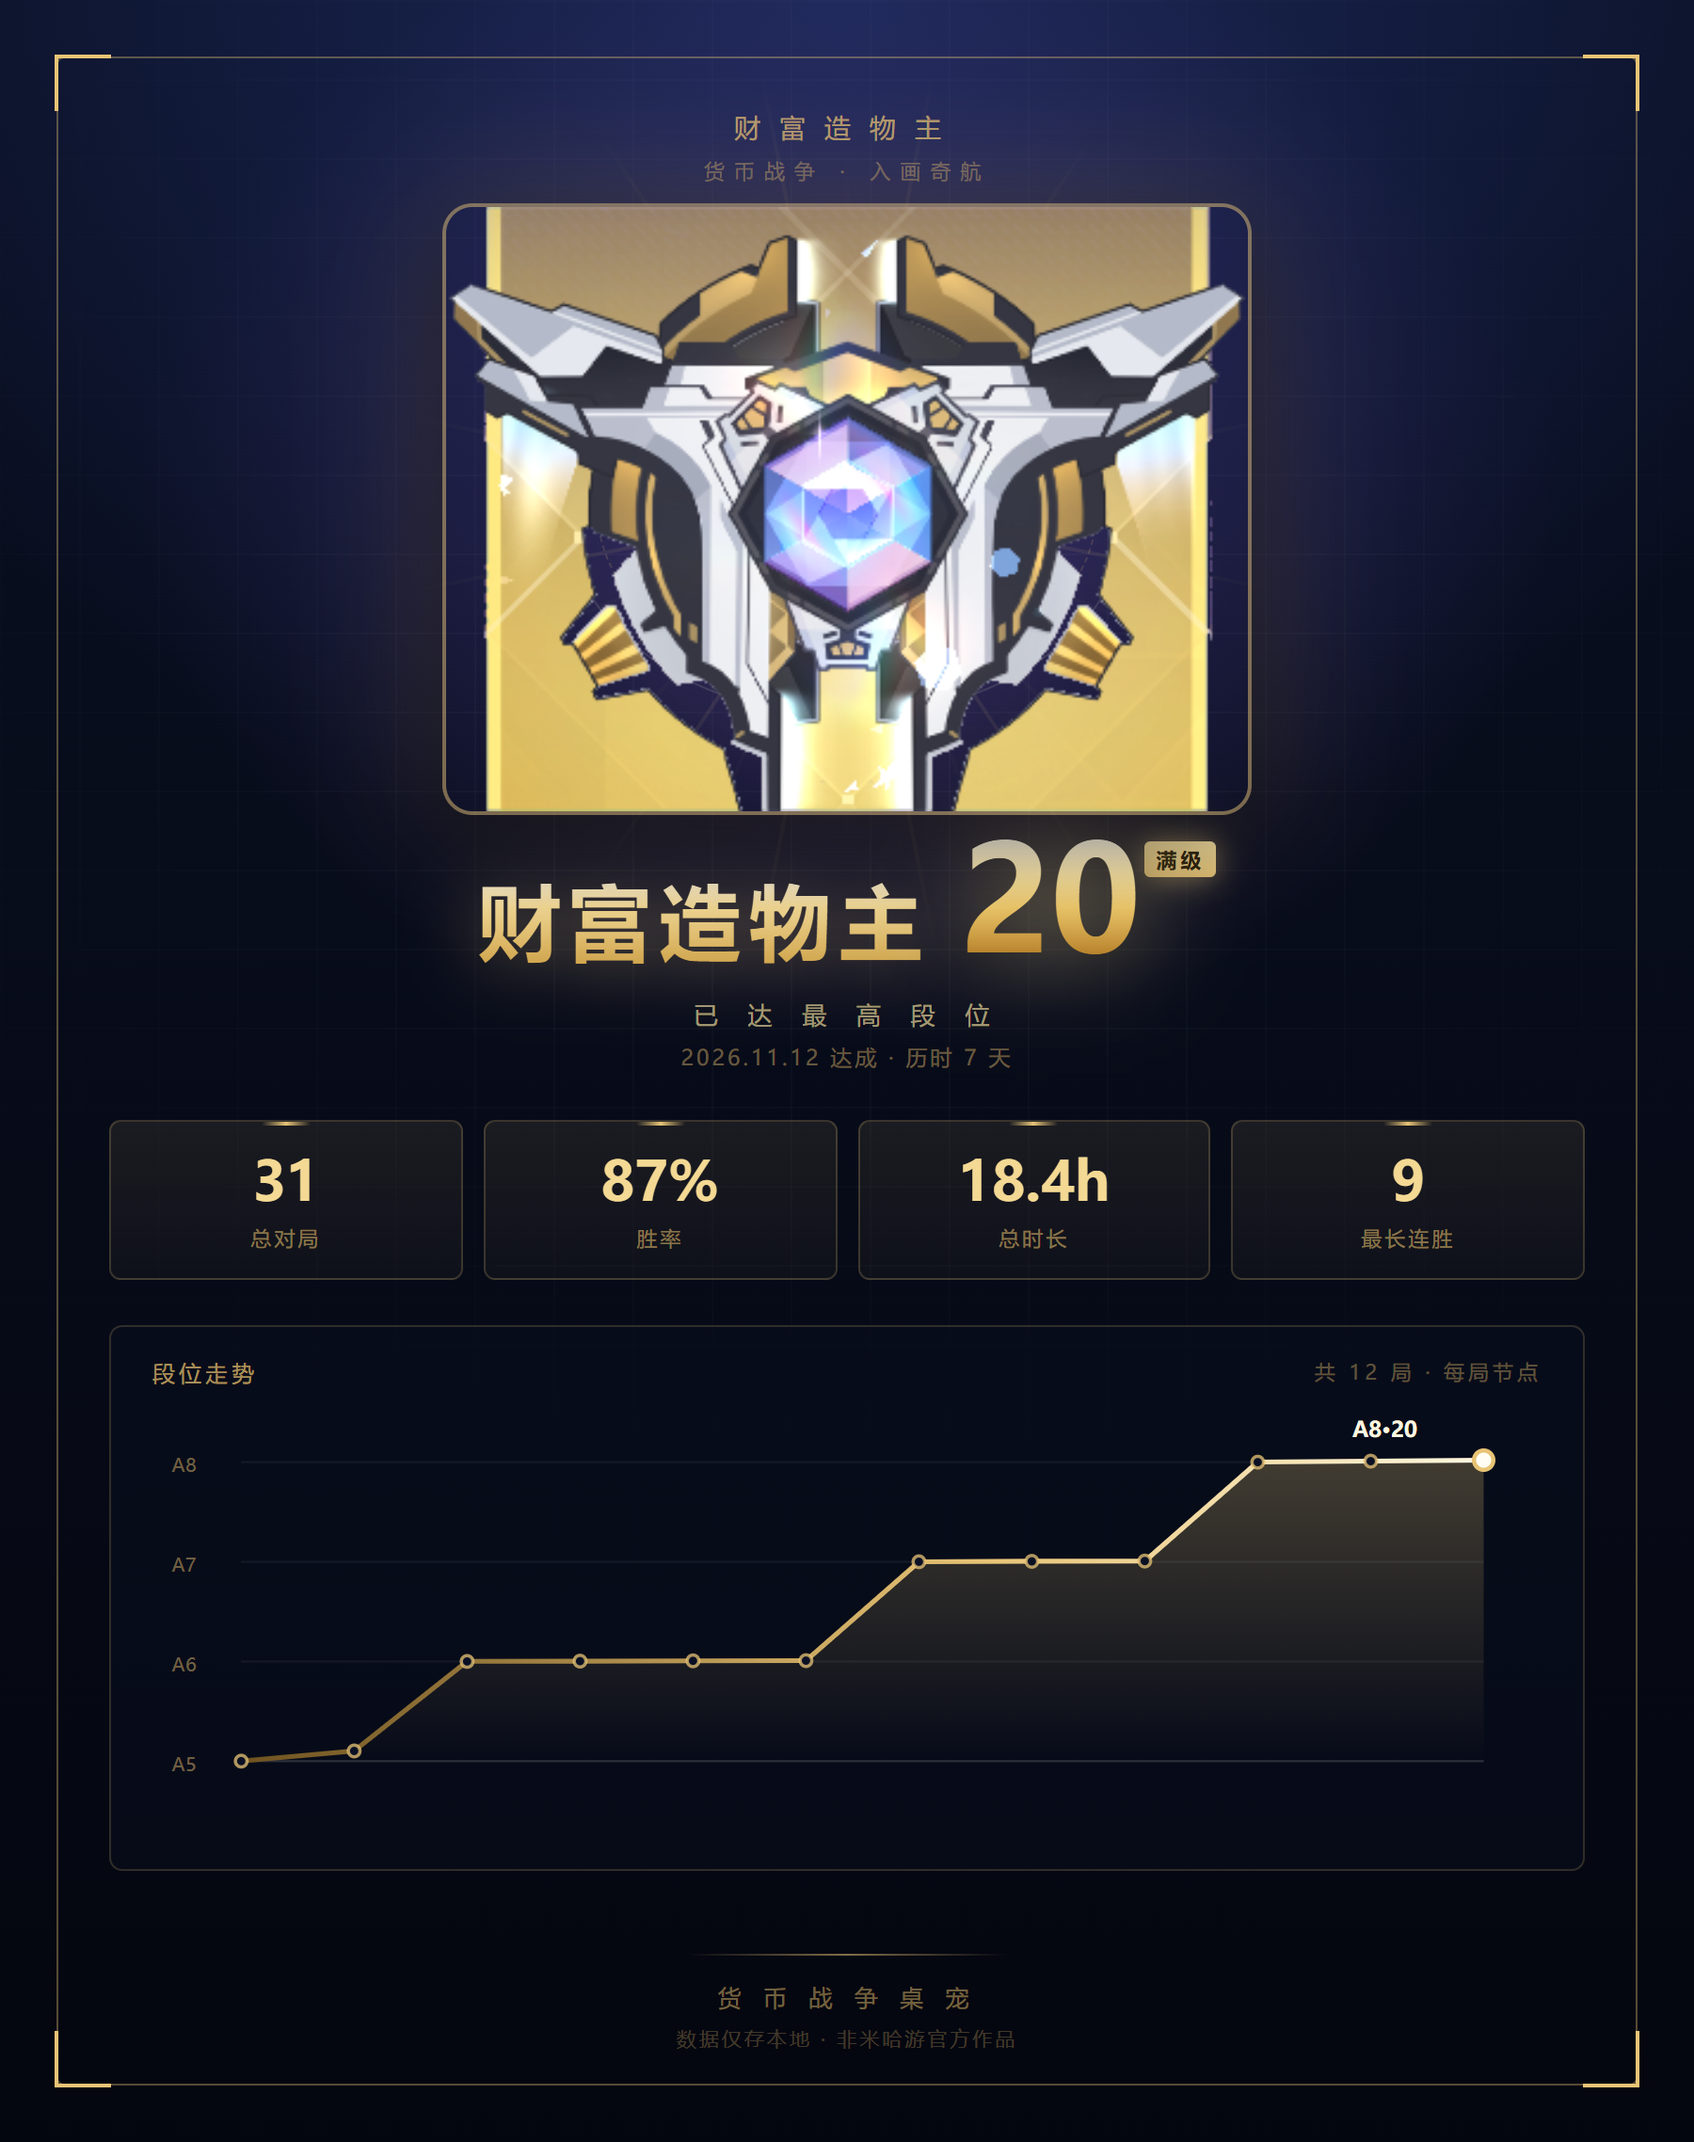
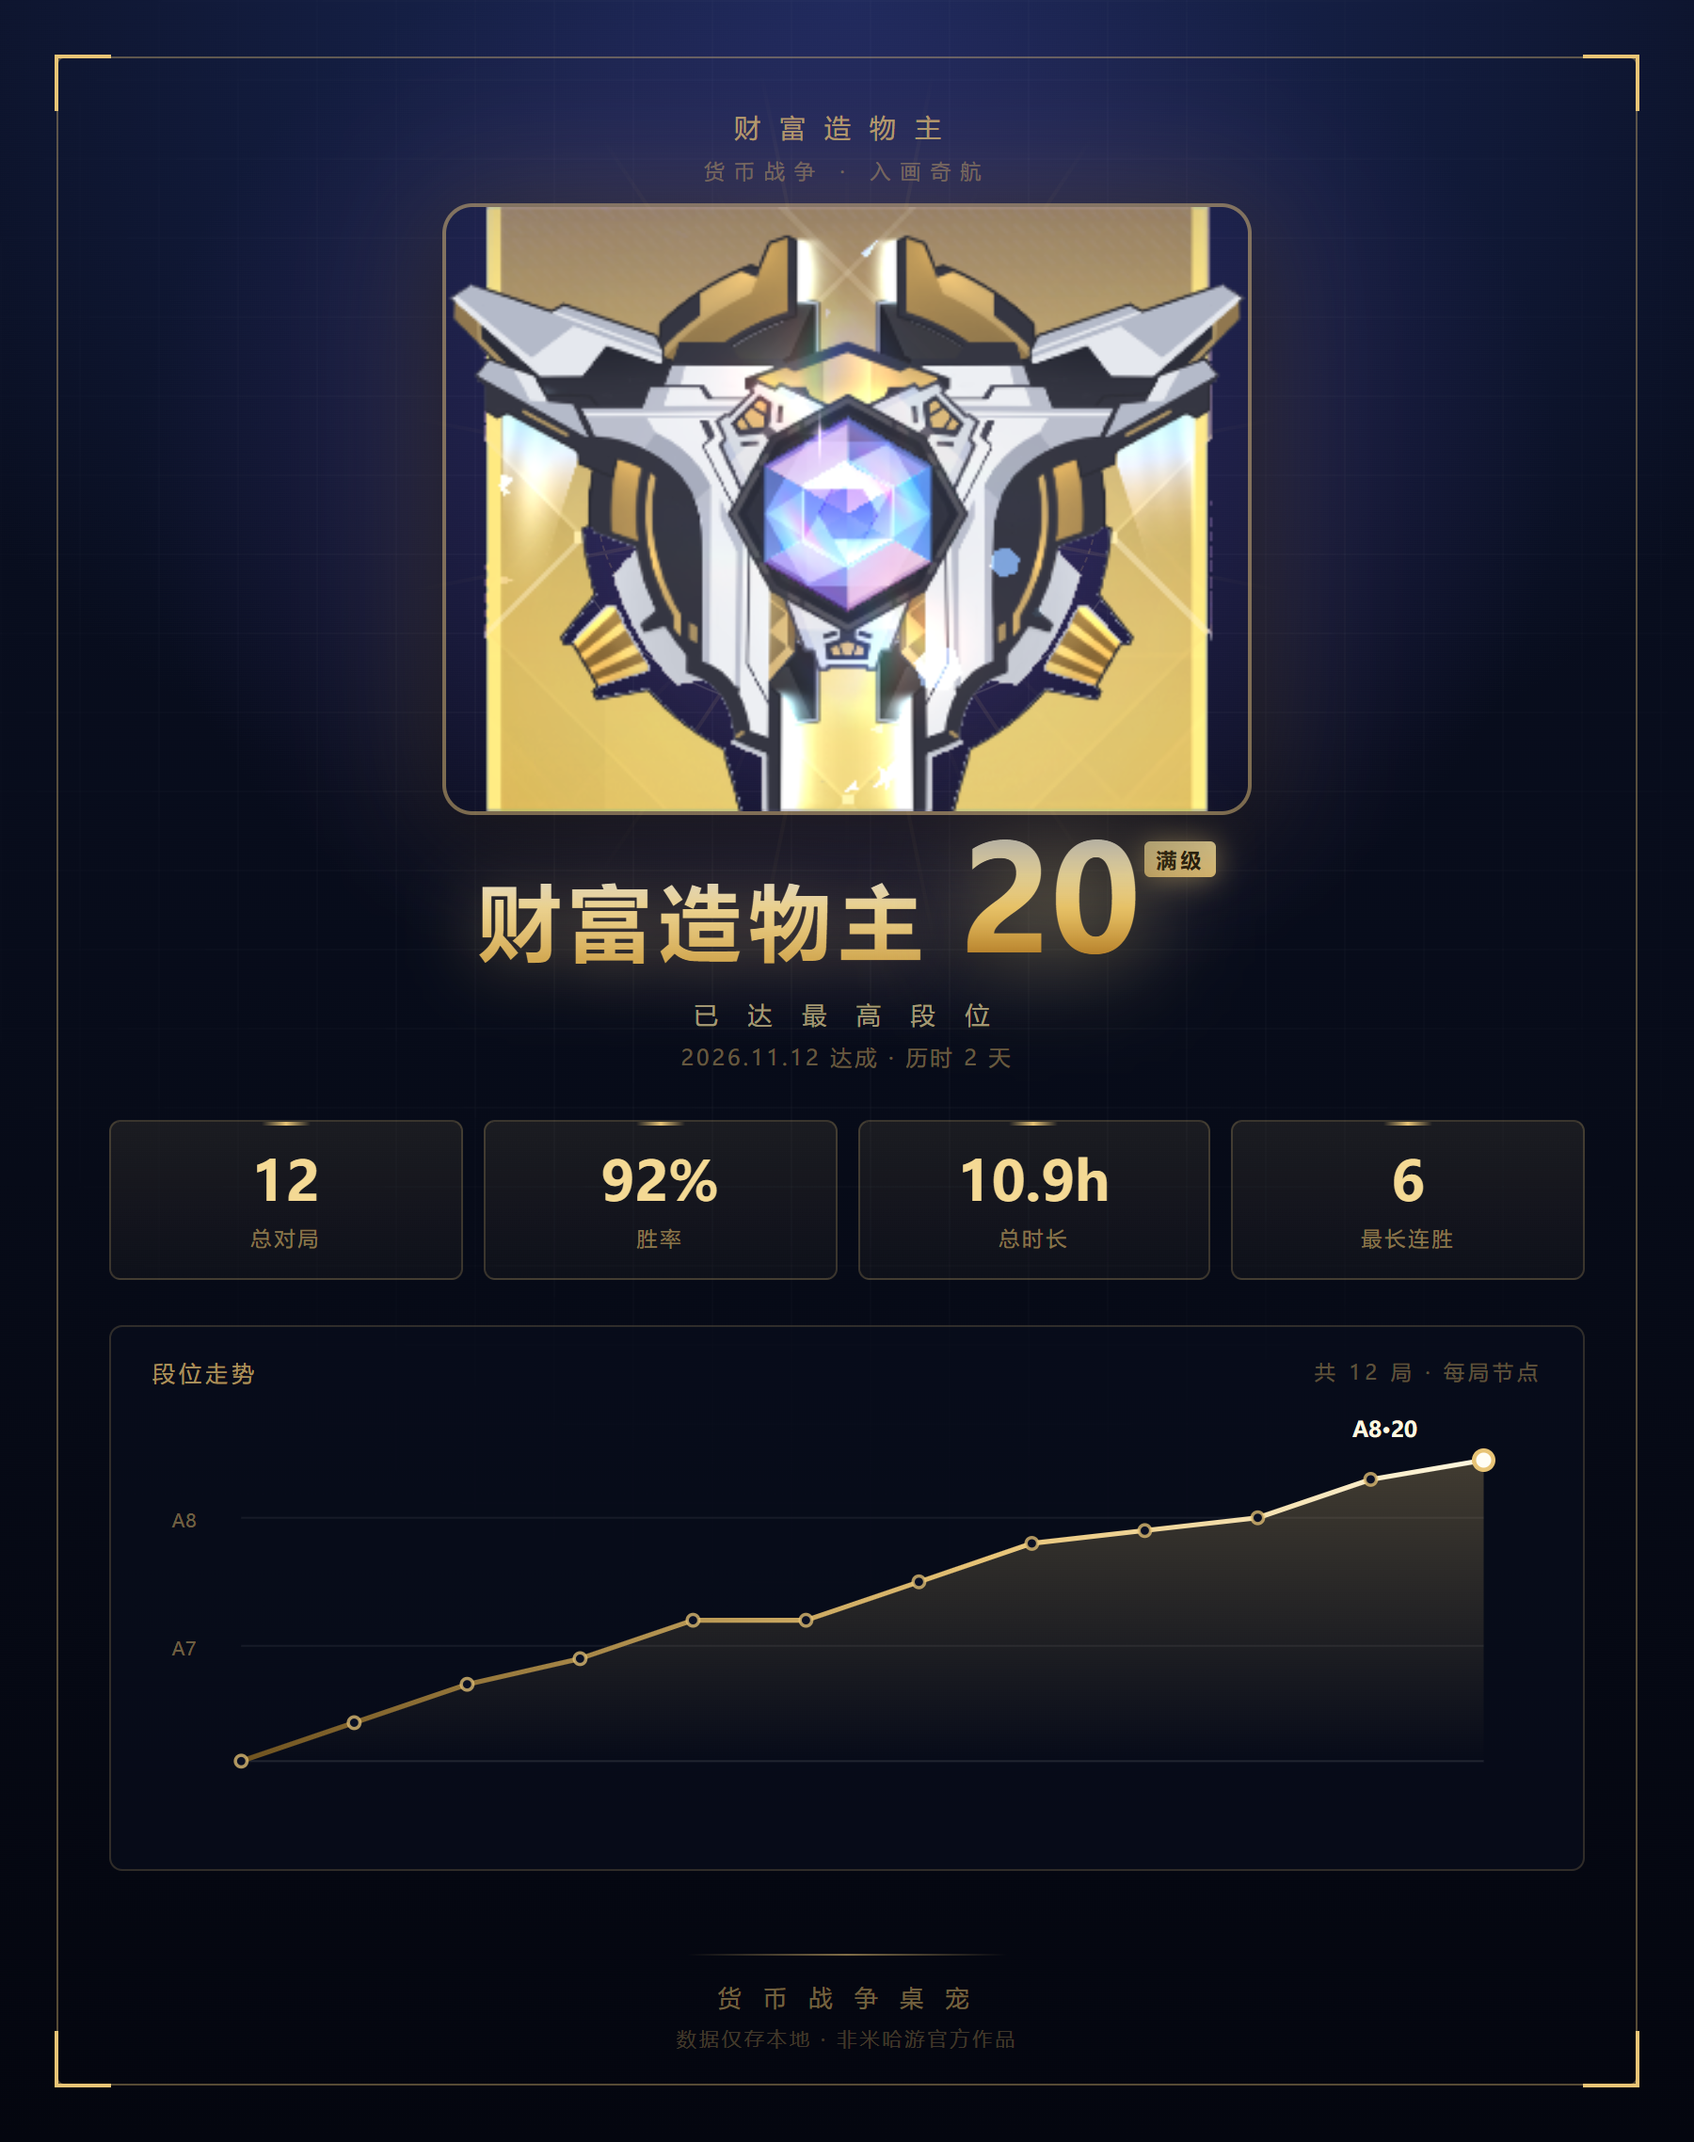
fix: 贺图折线图 X/Y 轴改用「局序号 + 职级序号」
- X 轴：原来按真实时间分布，两局间隔从几分钟到几小时，点疏密不均、段段拉成斜线

  改为按第几局均匀分布

- Y 轴：原来按原始分数（大段x1000+小段位）线性映射，段内只差几分几乎不可见，

  跨段却差近百分，导致段间被拉成长斜线

  改为连续职级序号（大段占 1.0，段内按实际档数等比展开）

- 例：A6-1=6.1 / A6-9=6.9 / A7-2=7.2 / A8-20=9.0，曲线平滑上升

check 零错误，228 测试全过

diff --git a/src/renderer/src/panel/CelebrationCard.tsx b/src/renderer/src/panel/CelebrationCard.tsx
@@ -37,29 +37,58 @@ export function CelebrationCard({
   // 把走势图数据映射到 SVG 坐标（宽 720，高 232）
   const W = 720, H = 232, PAD_L = 46, PAD_R = 30, PAD_T = 30, PAD_B = 46
   const points = data.curve
-  const xs = points.map((p) => p.time)
-  const ys = points.map((p) => p.cumulative)
-  const x0 = xs.length ? Math.min(...xs) : 0
-  const x1 = xs.length ? Math.max(...xs) : 1
-  const y0 = ys.length ? Math.min(...ys) : 0
-  const y1 = ys.length ? Math.max(...ys) : 1
-  const span = Math.max(1, y1 - y0)
-  const sx = (t: number): number => PAD_L + ((t - x0) / Math.max(1, x1 - x0)) * (W - PAD_L - PAD_R)
-  const sy = (v: number): number => H - PAD_B - ((v - y0) / span) * (H - PAD_T - PAD_B)
-  const linePath = points.map((p, i) => `${i ? 'L' : 'M'}${sx(p.time).toFixed(1)} ${sy(p.cumulative).toFixed(1)}`).join(' ')
+  const RANK_CODES = ['A0', 'A1', 'A2', 'A3', 'A4', 'A5', 'A6', 'A7', 'A8']
+
+  /**
+   * 把分数压成「连续职级序号」，每个大段占 1.0。
+   *
+   * 为什么不能直接用分数：分数是「大段×1000+小段位」，
+   * A6-1→A6-9 只差 8 分，而 A6-9→A7-2 差 93 分，
+   * 直接线性映射会让段内进步几乎不可见、段间跳变拉成长斜线。
+   *
+   * 改成：大段占 1.0，段内小段位按该段实际档数等比展开
+   * （A0–A7 按 10 档算，A8 按 20 档算），这样每局都有可见的上升。
+   * 例：A6-1=6.1、A6-9=6.9、A7-2=7.2、A8-20=9.0
+   */
+  const ordinalOf = (score: number): number => {
+    const band = Math.max(0, Math.min(8, Math.floor(score / 1000)))
+    const sub = Math.max(0, score % 1000)
+    const maxSub = band === 8 ? 20 : 10
+    return band + Math.min(sub, maxSub) / maxSub
+  }
+
+  const ordinals = points.map((p) => ordinalOf(p.cumulative))
+  const oMin = ordinals.length ? Math.min(...ordinals) : 0
+  const oMax = ordinals.length ? Math.max(...ordinals) : 1
+  const oSpan = Math.max(0.001, oMax - oMin)
+
+  /** 职级序号 → Y 坐标（越大越高；SVG y 向下所以要翻转） */
+  const syOrd = (ord: number): number => H - PAD_B - ((ord - oMin) / oSpan) * (H - PAD_T - PAD_B)
+  const sy = (score: number): number => syOrd(ordinalOf(score))
+
+  /**
+   * X 轴按「第几局」均匀分布，不按真实时间。
+   * 用真实时间的话两局间隔可能从几分钟到几小时，点会疏密不均。
+   */
+  const sx = (index: number): number =>
+    points.length <= 1
+      ? PAD_L + (W - PAD_L - PAD_R) / 2
+      : PAD_L + (index / (points.length - 1)) * (W - PAD_L - PAD_R)
+  const linePath = points.map((p, i) => `${i ? 'L' : 'M'}${sx(i).toFixed(1)} ${sy(p.cumulative).toFixed(1)}`).join(' ')
   const areaPath = points.length
-    ? `${linePath} L${sx(points[points.length - 1].time).toFixed(1)} ${H - PAD_B} L${sx(points[0].time).toFixed(1)} ${H - PAD_B} Z`
+    ? `${linePath} L${sx(points.length - 1).toFixed(1)} ${H - PAD_B} L${sx(0).toFixed(1)} ${H - PAD_B} Z`
     : ''
 
-  // 段位刻度：取曲线覆盖的大段范围
+  // 段位刻度：按各段在序号轴上的位置画横线
+  const minBand = points.length ? Math.min(...points.map((p) => Math.floor(p.cumulative / 1000))) : 0
+  const maxBand = points.length ? Math.max(...points.map((p) => Math.floor(p.cumulative / 1000))) : 8
   const rankTicks: Array<{ label: string; y: number }> = []
-  const codes = ['A5', 'A6', 'A7', 'A8']
-  for (const code of codes) {
-    const idx = ['A0', 'A1', 'A2', 'A3', 'A4', 'A5', 'A6', 'A7', 'A8'].indexOf(code)
-    const value = idx * 1000
-    if (value >= y0 - 500 && value <= y1 + 500) {
-      rankTicks.push({ label: code, y: sy(Math.max(y0, Math.min(y1, value))) })
-    }
+  for (let band = minBand; band <= maxBand; band++) {
+    const code = RANK_CODES[band] ?? ''
+    if (!code) continue
+    const y = syOrd(band)
+    // 只画落在绘图区内的刻度线
+    if (y >= PAD_T - 1 && y <= H - PAD_B + 1) rankTicks.push({ label: code, y })
   }
 
   const exportPng = async (): Promise<void> => {
@@ -190,13 +219,13 @@ export function CelebrationCard({
             {areaPath && <path d={areaPath} fill="url(#celAreaGrad)" />}
             {linePath && <path d={linePath} fill="none" stroke="url(#celLineGrad)" strokeWidth="2.5" strokeLinejoin="round" strokeLinecap="round" />}
             {points.map((p, i) => (
-              <circle key={i} cx={sx(p.time)} cy={sy(p.cumulative)} r={i === points.length - 1 ? 5 : 3}
+              <circle key={i} cx={sx(i)} cy={sy(p.cumulative)} r={i === points.length - 1 ? 5 : 3}
                 fill={i === points.length - 1 ? '#fffdf4' : '#0a1024'}
                 stroke={i === points.length - 1 ? '#e8c476' : 'rgba(232,196,118,.75)'}
                 strokeWidth={i === points.length - 1 ? 2.2 : 1.7} />
             ))}
             {points.length > 0 && (
-              <text x={sx(points[points.length - 1].time) - 68} y={sy(points[points.length - 1].cumulative) - 12}
+              <text x={sx(points.length - 1) - 68} y={sy(points[points.length - 1].cumulative) - 12}
                 fill="#fff8e0" fontSize="11" fontWeight="800">{data.rankCode}·{data.subLevel}</text>
             )}
           </svg>
